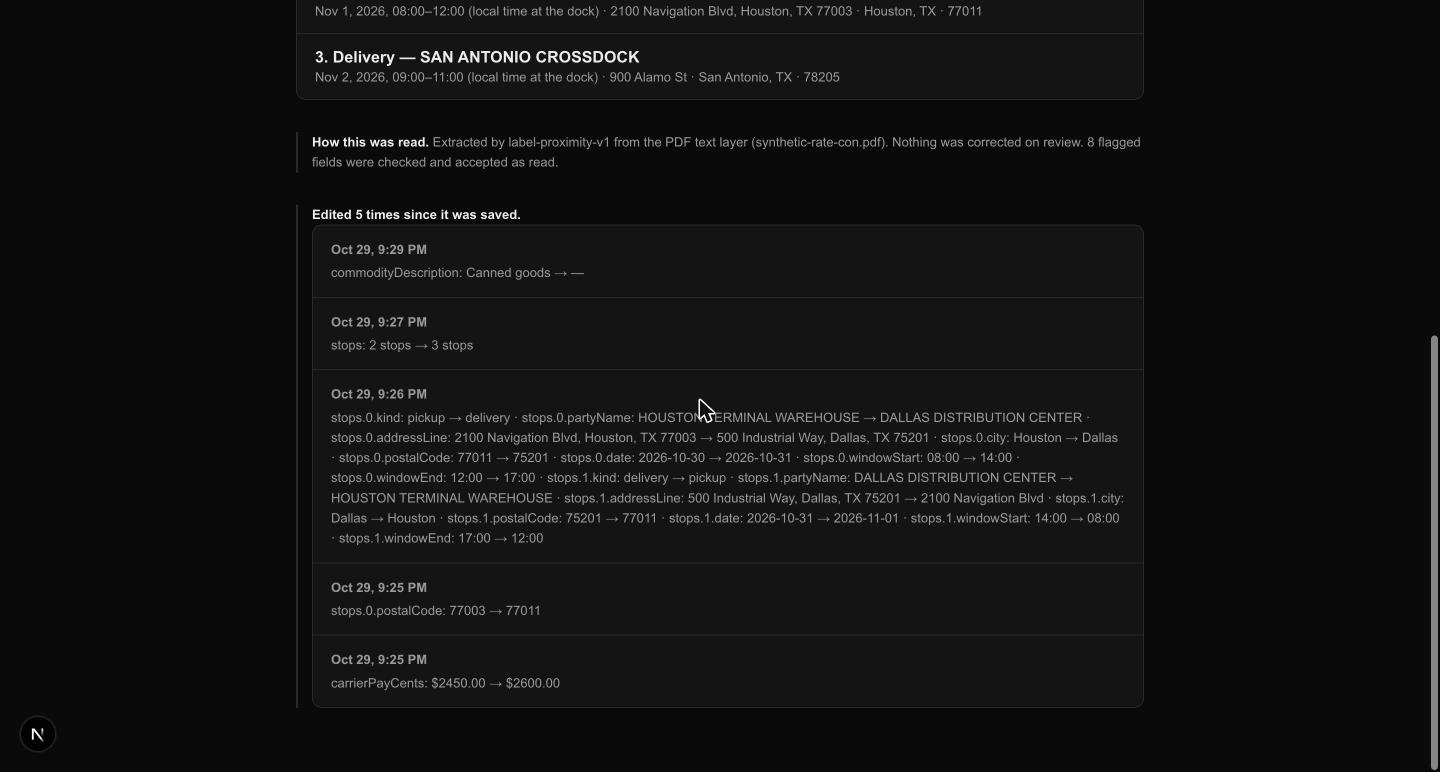
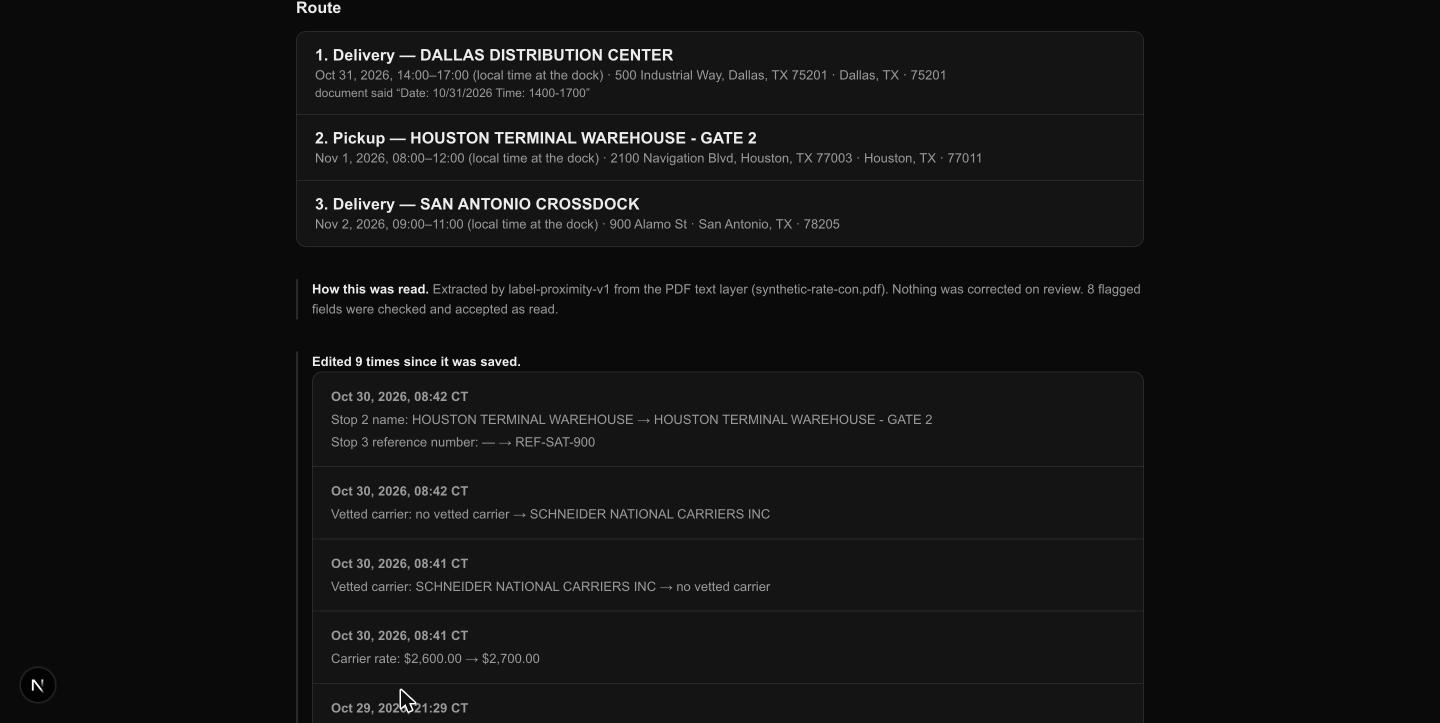
docs: record the load edit screen
Adds the edit walkthrough with fresh screenshots, and replaces the
"editing is not built" note in CLAUDE.md with what is now true: editing
exists, deleting does not, and status is still inferred rather than set.

Three limitations are written down rather than left to be rediscovered: a
date with no time is not storable at all, on the intake path as much as
the edit path; the parser stores one address twice, so a corrected ZIP
sits beside a stale one; and both are visible in the screenshots.

Also records what the browser pass cost and bought. Clearing the carrier
numbers unlinked a load from its vetting history with nothing in the
trail, and 426 tests, three reviews and a clean build all missed it —
because a doc comment claimed the case was handled and a reviewer read
the comment as evidence.

diff --git a/CLAUDE.md b/CLAUDE.md
@@ -178,7 +178,7 @@ Prioritize by client demand:
 
 ## Current state (carrier vetting and load intake built)
 
-Verified: `npm test` (366 tests), `npm run lint`, `npm run typecheck`, and `npm run build` all pass — and the intake flow has been driven in a browser end to end, which is a different question (see below).
+Verified: `npm test` (447 tests), `npm run lint`, `npm run typecheck`, `npm run format:check`, and `npm run build` all pass — and the intake and edit flows have both been driven in a browser end to end, which is a different question (see below).
 
 **Load intake is implemented end to end.** Paste a rate confirmation or upload a digital PDF at `/loads/new`, get a draft with per-field confidence and the uncertain fields flagged where they sit, edit it, and save a real `Load` + ordered `Stop[]` + resolved `Party` rows. `/loads` lists them; `/loads/[id]` shows the route, the window as the document stated it, and how the load was read.
 
@@ -191,9 +191,15 @@ Four things about it worth knowing without reading the code:
 - **The corrections a reviewer makes are recorded** in `details.intake`, with the confidence the parser had claimed. That is the only moment the module can learn whether a confidence meant anything, and it cannot be reconstructed afterwards. It is the evidence the scale eventually gets tuned from.
 - **A name/number disagreement is reported, loudly.** The link is made on MC or DOT number, because that is what a document states precisely. When the number resolves to a carrier whose name is not the one the document used, the load page says so instead of quietly displaying the held carrier's name — that disagreement is the signature of double brokering or carrier identity theft, which the FMCSA data explicitly cannot detect but this _can_, for free, because both halves are in hand. `carrierNameMatches` normalizes corporate form and punctuation so "Gulf Coast Hauling, L.L.C." does not trip it; a warning that cries wolf stops being read.
 
+- **A saved load can be edited, and says what changed.** `/loads/[id]/edit` rewrites the load, its route, and the facilities behind its stops. Each save appends `{at, changes}` to `details.edits`, which the load page renders — a rate con is an agreement, so "did the carrier pay always say $1,850?" is a question that gets asked. The trail is a sibling of `details.intake`, never part of it: `intake.corrections` is evidence about the _parser_, and diluting it with edits made days later would corrupt the only data the confidence scale can be calibrated from. Correcting a stop's address fixes the shared `Party`, so it is right on every load that touches that dock; retyping the name points the stop at a different facility instead, and never renames one other loads depend on.
+
 The whole flow has been driven in a browser end to end — paste, review, correct a field, save, and the duplicate-reference path — and that is how both the `"use server"` bug and the name-mismatch gap were found. **Neither was visible to 359 passing tests, `tsc`, or `next build`.** The name-mismatch gap in particular is the one worth remembering: no test would have been written for it, because nobody had had the thought yet. It took a real screen showing a wrong-looking name. Run the thing before calling a screen done.
 
-**[`docs/load-intake.md`](./docs/load-intake.md) is the walkthrough**: annotated screenshots of every intake screen, paste-ready sample documents to reproduce each one, and what the module cannot do yet. Read it before changing an intake screen — it is also the fastest way to hand the module to someone else. (The same screenshots are in the agent wiki's project note; the repo copy is canonical.)
+**The edit screen proved the same lesson twice over.** Driving it found a bug 426 passing tests, three task reviews and a clean build had all missed: clearing both carrier-number boxes set `carrier_id` to NULL and the trail recorded **nothing** — and if the unlink was the only change in that save, no entry was written at all. The vetting link is the difference between "this carrier's authority and insurance were checked" and "nobody checked", and it could move in either direction leaving no record.
+
+It survived review because of a specific trap worth naming: `StatedView` carried `carrierId` and its own doc comment said a changed linkage "is reported as `carrierId`" — but `carrierId` was never in `LOAD_PATHS`, the list the diff actually iterates. The comment described behaviour the code did not have, and a reviewer cited that comment as evidence the case was handled. **A comment asserting a property is not evidence the property holds**; the same pattern then turned up twice more on the same branch — a timestamp comment claiming "the reader's own zone" from a server component that rendered UTC, and a test named for host-zone independence whose mechanism the code never read. On an audit trail it matters more than elsewhere: a trail that lies is worse than no trail, because it gets believed.
+
+**[`docs/load-intake.md`](./docs/load-intake.md) is the walkthrough**: annotated screenshots of every screen a load passes through — read, review, save, and correct afterwards — paste-ready sample documents to reproduce each one, and what the module cannot do yet. Read it before changing an intake or edit screen — it is also the fastest way to hand the module to someone else. (The same screenshots are in the agent wiki's project note; the repo copy is canonical.)
 
 **Signing in locally without the email.** Verifying a gated screen needs a session, and the magic link goes to an inbox. Drive the real callback instead: Auth.js stores `sha256(rawToken + AUTH_SECRET)` in `verification_tokens`, so insert a row with that hash and open `/api/auth/callback/resend?token=<raw>&email=<addr>&callbackUrl=<path>` — the server sets the session cookie itself. Single-use, and it exercises real auth rather than faking it. Injecting a cookie directly does not work; browser automation blocks cookie writes.
 
@@ -209,13 +215,13 @@ A re-check reports whether the payload moved (`changed`), by comparing the conte
 
 - `src/domain/` — framework-free. Money, time windows, carrier facts, verdicts, the vetting use case, `details` schemas, ports (`CarrierLookup`, `DocumentStore`, `TextExtractor`/`StructureParser`, repositories)
 - `src/domain/intake/` — the whole intake brain: `document-text` (line and column assembly, scan detection), `plain-text` (the pasted-email stage, in the domain because it is pure string handling with no vendor), `parse-values`, `label-parser`, `load-draft`, `pipeline`, `confirm`, `provenance`, `fingerprint`
-- `src/domain/load/` — load/stop/party shapes plus the status, equipment and stop-type vocabularies. These moved out of the Drizzle schema so a parser can classify equipment without the database on its import path; the schema reads them from here and re-exports them
+- `src/domain/load/` — load/stop/party shapes plus the status, equipment and stop-type vocabularies. These moved out of the Drizzle schema so a parser can classify equipment without the database on its import path; the schema reads them from here and re-exports them. Also `load-values` (a load as a human states it: the schemas plus the translation into stored shapes, shared by intake's confirm step and the edit screen so rules like "never create a carrier" have one implementation) and `update` (the edit use case, including the diff that writes the trail)
 - `src/db/` — Drizzle schema, client, repository implementations
 - `src/integrations/` — outbound vendor adapters. `fmcsa/` implements `CarrierLookup`: a permissive zod schema, the payload→facts mapper, and the HTTP client. `pdf/` implements `TextExtractor` over `unpdf`
 - `src/tools/inspect-document.ts` — the corpus inspector (`npm run intake:inspect`). Not production code
 - `src/env/` — zod-parsed env, split by concern so a migration doesn't require an email provider key
 - `src/server/tenant.ts` — the only place a `BrokerageScope` is created from a session. `resolveSession()` returns three states, not two: signed out, **signed in with no brokerage**, and ready. The middle one needs its own screen — folding it into "signed out" bounces the user to `/signin`, which redirects signed-in users back, forever. Wrapped in React `cache` so the layout and the page beneath it share one session read
-- `src/server/intake.ts` — composition root for intake. Extractor order is the routing rule: each declares what it `supports`, first match wins
+- `src/server/intake.ts` — composition root for intake and editing. Extractor order is the routing rule: each declares what it `supports`, first match wins
 - `src/server/carriers.ts` — composition root for vetting. Deliberately **not** `server-only`: nothing in it touches a request, and Phase 3's scheduled re-checks are a plain Node process that needs exactly this module. `server-only` belongs on modules that read a session
 - `src/test/` — transaction-rollback harness and global migration setup
 
@@ -233,7 +239,9 @@ A re-check reports whether the payload moved (`changed`), by comparing the conte
 - The PDF renderer and a `DocumentStore` implementation (both land with doc generation)
 - **OCR.** `pageNeedsOcr` detects a scan and the pipeline returns `needs_ocr`, which the screen explains. The path itself needs a job queue — see the constraints above
 - **Per-layout templates.** The generic label-proximity parser is the baseline; templates should be built where they measurably beat it on real documents, which needs real documents
-- **Editing or deleting a saved load.** `LoadRepository` is create-and-read. A wrong field after confirmation means re-importing under a new number, which is honest but not pleasant; add update when a screen needs it
+- **Deleting a saved load.** Editing is built (`/loads/[id]/edit`): any field, the route, and a facility's address, with every change recorded in `details.edits`. Deleting is not — a bad import gets corrected rather than removed. Status is still inferred at intake and not settable by hand, so a load that saved as `draft` for want of a rate stays a draft after the rate is filled in; a real lifecycle needs discovery, not invention
+- **Storing a date with no time.** A stop's window is a date _and_ a time together (`joinLocal` needs both), so a document stating "Delivery 11/03" with no appointment window loses the date — on the intake path as much as the edit path. The edit trail stays silent about it rather than reporting a save that did not happen, which is honest but not a fix. Closing it means either a separate nullable date column on `stop` or carrying the precision in `appointment_type`; both are schema decisions, and both collide with the rule that a window never claims a precision the document did not state
+- **One address, stored twice.** The parser writes the whole address line into `Party.addressLine1` _and_ splits out `city`/`region`/`postalCode`, and `StopRow` prints all four. Correct the ZIP in the field labelled ZIP and the old one is still sitting in the address line beside it. Harmless while nothing could be edited; actively misleading now that it can be, because a reviewer who fixes it will believe they did
 - **Per-stop timezones.** A stop stores the facility's zone when the `Party` has one, and new parties get `null` — the document never states a zone and inferring one from the state would be the exact guess the time-window model exists to avoid. The screen says "local time at the dock". Setting a zone per facility is the fix, and it needs a facilities screen
 - **Refreshing a carrier's name or address on re-vet.** `vetCarrier` sets `details` when it creates a carrier and never updates it, because `CarrierRepository` has no update method. Stale rather than wrong — the raw payload on every check has the current values. Add the method when a screen needs it
 - Searching a carrier by name (the QCMobile `/carriers/name/:name` endpoint). Brokers vet by number; add this only if discovery says otherwise

diff --git a/docs/load-intake.md b/docs/load-intake.md
@@ -1,8 +1,9 @@
 # Load intake: what it looks like, and how to try it
 
-Screenshots of every intake screen, and paste-ready documents to reproduce
-them. Everything here runs locally against synthetic documents — no API key,
-no network, nothing leaves the machine.
+Screenshots of every screen a load passes through — read, review, save, and
+correct afterwards — with paste-ready documents to reproduce them. Everything
+here runs locally against synthetic documents — no API key, no network,
+nothing leaves the machine.
 
 Architecture and the reasoning behind it are in [`../CLAUDE.md`](../CLAUDE.md).
 
@@ -123,7 +124,58 @@ paperwork is a problem they need to see, and the usual cause is importing the
 same rate con twice. The form keeps its values so you can change the number
 and resubmit.
 
-## 5. Looking at documents without the UI
+## 5. Correcting a saved load
+
+A load used to be frozen once saved: a wrong rate meant re-importing under a
+new number. **Edit load** on the load page opens the same fields again.
+
+![The edit screen, every field prefilled from the saved load, with a line stating the status will not change](./images/load-edit-screen.jpg)
+
+Any field, the whole route — add a stop, remove one, reorder them — and the
+address of the facility behind each stop. Three things are worth knowing
+before you use it:
+
+- **Correcting an address fixes the facility everywhere.** The address lives on
+  the shared `Party` row, not on the stop, so a wrong ZIP is wrong on every
+  load that touches that dock and gets fixed on all of them. Typing a
+  _different name_ is the other thing entirely: it points this stop at another
+  facility, and never renames the one other loads depend on.
+- **Status is not editable here.** It is still whatever intake inferred, so a
+  load that saved as a draft for want of a rate stays a draft after you fill
+  the rate in. A real lifecycle needs discovery, not invention.
+- **The carrier number boxes are load-bearing.** A load stores a carrier
+  _link_, not the numbers somebody typed, so the form prefills them from the
+  linked carrier. Clearing them unlinks the load from its vetting history —
+  which is allowed, and is now recorded.
+
+Every save appends what changed to the load, and the load page shows it:
+
+![The edit trail on the load page, listing each save with its timestamp and one line per changed field](./images/load-edit-trail.jpg)
+
+Newest first, one line per field, with the value it held before. It is a
+sibling of **How this was read**, never part of it — those corrections are
+evidence about the _parser_, captured the moment a human overruled it, and
+diluting them with edits made days later would ruin the only data the
+confidence scale can be tuned from.
+
+**That screenshot also shows a defect**, in the route above the trail: stop 2
+reads `… Houston, TX 77003 · Houston, TX · 77011`. The ZIP was corrected to
+77011 and the stale 77003 is still sitting in the address line beside it. See
+[one address, stored twice](#7-what-it-cannot-do-yet) — it is a parser
+decision, not an edit-screen one, and editing is what made it dangerous.
+
+The timestamp is an instant in **CT**, where a dock window is wall time with no
+zone at all. That asymmetry is deliberate: an edit happened at a knowable
+moment, and a rate con's `0800` does not say which clock it means.
+
+A trail that lies is worse than no trail, because it gets believed. Two things
+it will not claim: a date you type with no time alongside it is not storable
+today, so it is not reported as saved; and the carrier link is reported in
+either direction, because the difference between "this carrier's authority and
+insurance were checked" and "nobody checked" is the one change that must never
+be silent.
+
+## 6. Looking at documents without the UI
 
 The corpus inspector reports what the pipeline sees, with no server and no
 database:
@@ -164,7 +216,7 @@ thresholded** — where the line sits between "same form" and "different form"
 is a judgement about real documents, and hardcoding it before seeing any would
 be guessing.
 
-## 6. What it cannot do yet
+## 7. What it cannot do yet
 
 - **Scans and faxes.** A page with no text layer needs OCR, which is not
   built — the screen says so rather than producing an empty draft. OCR does
@@ -172,8 +224,19 @@ be guessing.
 - **Per-layout templates.** Today there is one generic label-proximity parser.
   Templates should be written where they measurably beat it, which needs real
   documents.
-- **Editing a saved load.** Create and read only; a wrong field after
-  confirmation means re-importing under a new number.
+- **Deleting a load.** Editing exists now (section 5); deleting does not. A bad
+  import gets corrected rather than removed.
+- **Setting a load's status.** Inferred at intake and never settable by hand.
+- **A date with no time.** A stop stores a window as a date _and_ a time
+  together, so a document stating "Delivery 11/03" with no appointment window
+  loses the date — on the intake path as much as the edit path. The edit trail
+  stays silent about it rather than reporting a save that did not happen, which
+  is honest but not a fix.
+- **One address, stored twice.** The parser puts the whole address line into
+  the facility's `addressLine1` _and_ splits out city, state and ZIP, and the
+  load page prints all four. Correct the ZIP in the field labelled ZIP and the
+  old one is still sitting in the address line beside it. Harmless while
+  nothing could be edited; misleading now that it can.
 - **Timezones per facility.** A stop stores the facility's zone only if the
   party has one, and nothing sets one yet. The screen says "local time at the
   dock" rather than guessing from the state on the address.
